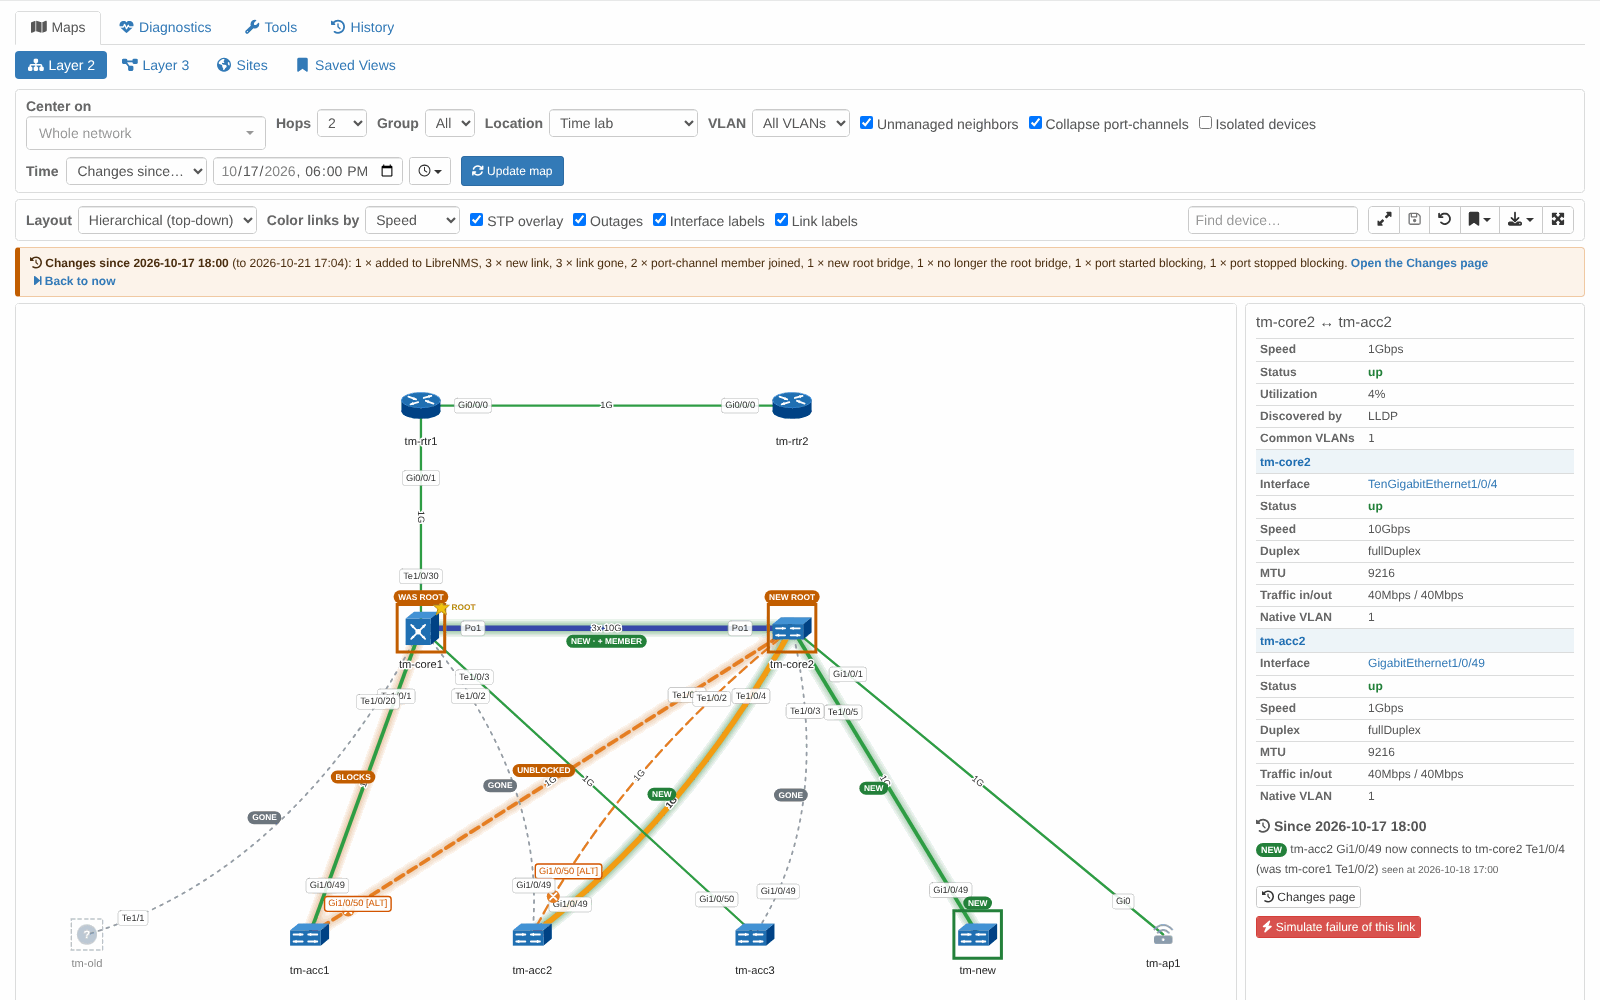
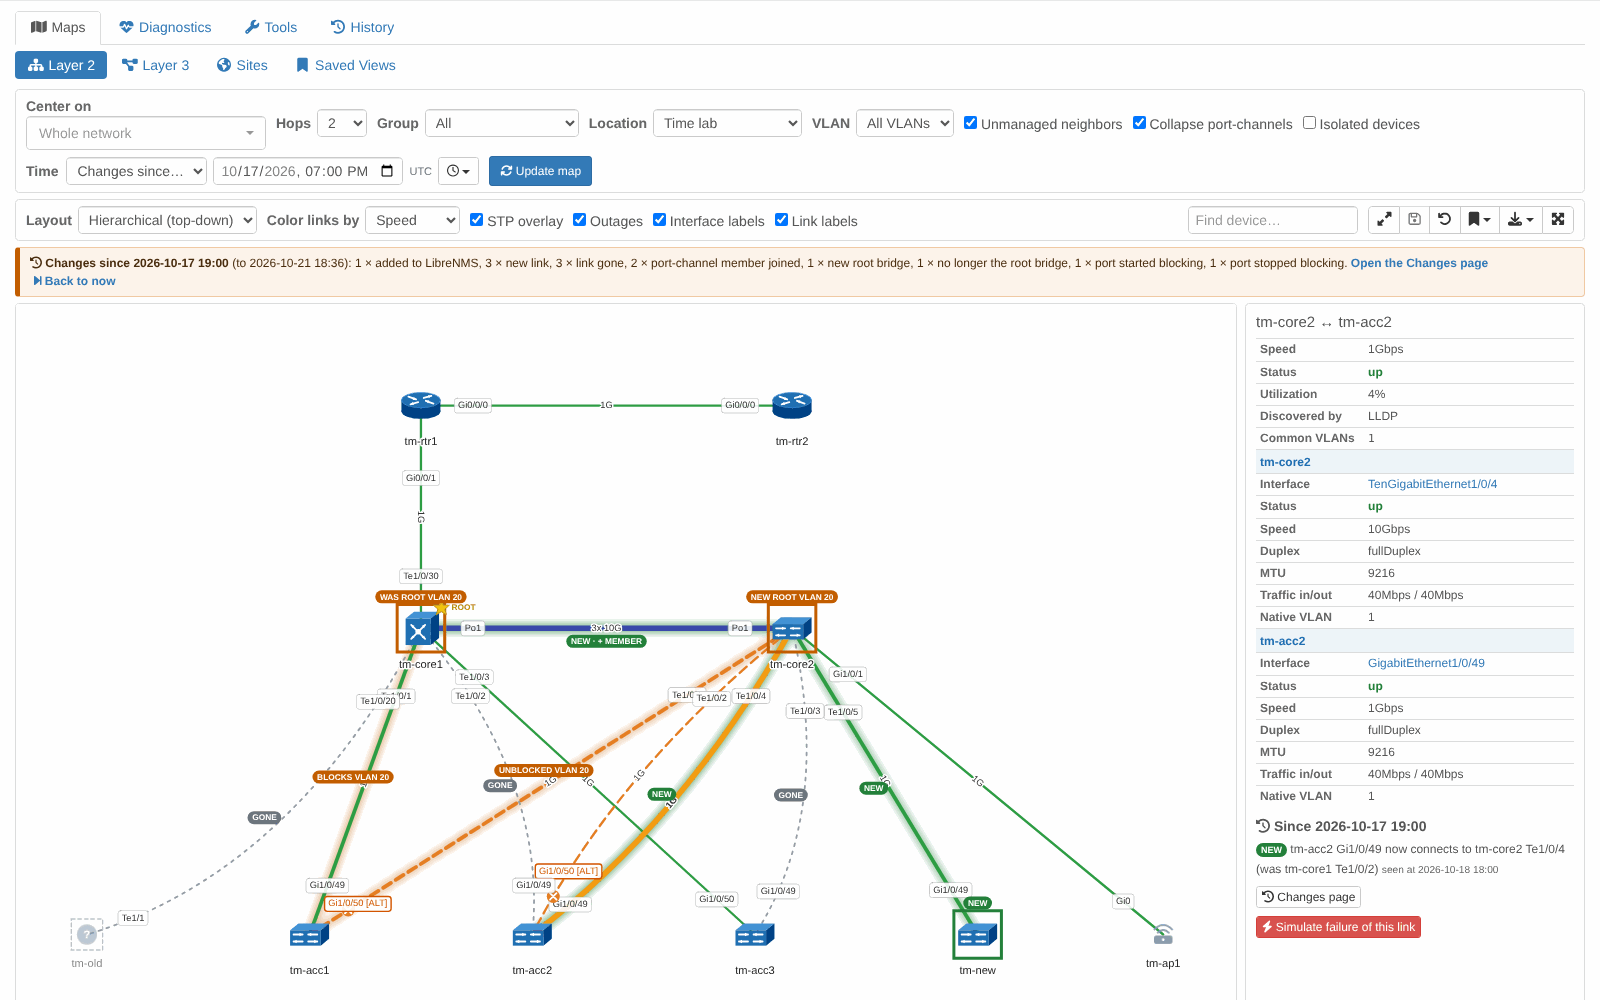
Document the maps at a point in time as reviewed
The README says what the review changed: the changes since a time are
what the Changes page reports for the span, the spanning tree marks
follow the map's VLAN, a minute counts to its end and the picks carry
their seconds, times given with an offset show as the server takes them,
ports re-created under a new id are matched by name, a device monitored
then stays on a past map without unmanaged neighbours, a past L3 map
keeps the neighbours the history recorded and the banner names the
phones it leaves out. It adds the figures over a long history (600,000
facts over 90 days) and the index migration to the list validate.php
warns about. The screenshots show the time zone and the VLAN badges.

Claude-Session: https://claude.ai/code/session_0198AmcjhsoHmwiaRMAktLtB

diff --git a/README.md b/README.md
@@ -115,27 +115,36 @@ recorded it at a time, or today's network with what changed since a time. **Time
 * **As of…** a date and time (`at=2026-10-14T09:00` in the URL): the map as the last snapshot at or before that time
   recorded it. From the history come the LLDP/CDP links (unmanaged neighbors included, phones left out as the history
   leaves them out), the port-channel members (collapsed as they were then), the root bridge each switch saw and the
-  blocked ports of the STP overlay (L2), and the OSPF adjacencies and BGP sessions (L3). From today come the ports with
-  their names, speeds and VLANs, the device details and the L3 map's subnets and addresses; a port LibreNMS no longer
-  has keeps the name the history stored, and so does a device it no longer has ("No longer in LibreNMS"). Links and
-  sessions are drawn without a status, in gray or the color of their speed (the history keeps none), devices as they
-  were: down when an outage covered that time, gray when LibreNMS did not have them yet. OSPFv3, IS-IS, IPsec, MPLS
-  LSPs and pseudowires are not in the history: a past L3 map leaves them out and says so. A banner names the snapshot
-  drawn and the next one, and what came from the history and what from today.
+  blocked ports of the STP overlay (L2), and the OSPF adjacencies and BGP sessions with the neighbor each went to then
+  (L3: a neighbor re-addressed or removed since shows as it was). From today come the ports with their names, speeds
+  and VLANs, the device details and the L3 map's subnets and addresses; a port LibreNMS no longer has keeps the name
+  the history stored, a port it re-created under a new id is matched by its name, and a device it no longer has keeps
+  its stored name ("No longer in LibreNMS") and stays on the map also without unmanaged neighbors, as it was monitored
+  then. Links and sessions are drawn without a status, in gray or the color of their speed (the history keeps none),
+  and their details show no status or traffic; devices as they were: down when an outage covered that time, gray when
+  LibreNMS did not have them yet. OSPFv3, IS-IS, IPsec, MPLS LSPs and pseudowires are not in the history: a past L3
+  map leaves them out and says so. A banner names the snapshot drawn and the next one, what came from the history and
+  what from today, and what the history leaves out (phones).
 * **Changes since…** a date and time or the baseline (`since=2026-10-14T09:00`, `since=baseline`): today's map with
-  what changed since then, read as the Changes page reads it (the same moved cables, root bridge moves and lost
-  adjacencies, and its limit of 5,000 facts that started and 5,000 that ended). New links are marked **NEW**, a cable
-  that moved is a new link and a ghost of the old one, port-channel members that joined or left **+ MEMBER** /
-  **− MEMBER**, the root bridge of the VLANs whose root moved **NEW ROOT** and the old one **WAS ROOT**, ports that
-  started or stopped blocking **BLOCKS** / **UNBLOCKED**, OSPF adjacencies and BGP sessions that came up **NEW**,
-  devices added to LibreNMS **NEW**. What is gone is drawn as a dashed gray **ghost** (links, lost adjacencies and
-  sessions), to a ghost of its far end when that is no longer on the map. The banner counts the marks; the details of a
-  marked link or device say what changed and when, and open the Changes page for that span. Since the baseline, the
-  marks are what differs from it (blocked ports are not part of a baseline).
+  what changed since then, read as the Changes page reads the same span: what it reports is marked, and nothing else
+  (the same moved cables, root bridge moves and lost adjacencies; a neighbor LibreNMS started or stopped monitoring is
+  the same cable, no change; and its limit of 5,000 facts that started and 5,000 that ended). New links are marked
+  **NEW**, a cable that moved is a new link and a ghost of the old one, port-channel members that joined or left
+  **+ MEMBER** / **− MEMBER**, the root bridge of the VLANs whose root moved **NEW ROOT** and the old one **WAS ROOT**,
+  ports that started or stopped blocking **BLOCKS** / **UNBLOCKED**, OSPF adjacencies and BGP sessions that came up
+  **NEW**, devices added to LibreNMS **NEW**. What is gone is drawn as a dashed gray **ghost** (links, lost adjacencies
+  and sessions), to a ghost of its far end when that is no longer on the map (none for an unmanaged neighbor when the
+  map leaves those out). On a map of one VLAN, the spanning tree marks are those of the instance it shows; on a map of
+  all VLANs each names its VLANs (**NEW ROOT VLAN 20**). The banner counts the marks; the details of a marked link or
+  device say what changed and when, and open the Changes page for that span. Since the baseline, the marks are what
+  its comparison on the Changes page lists (blocked ports are not part of a baseline).
 
 Quick picks (the clock button): an hour ago, yesterday and last week at this time, when the baseline was saved (*As
-of*) or the baseline itself (*Changes since*), and the latest snapshots. The time is the server's; the date input
-stops at the earliest snapshot the history keeps.
+of*) or the baseline itself (*Changes since*), and the latest snapshots, each to its second. Times are the server's
+(its time zone is named next to the date): a time with an offset (`at=2026-10-14T09:00+02:00`) is shown as the
+server takes it. A time without seconds counts to the end of its minute, as a snapshot starts a few seconds into one:
+*As of* 09:00 is the snapshot of 09:00:03, *Changes since* 09:00 are the changes after it. The date input stops at
+the minute of the earliest snapshot the history keeps.
 
 A map at another time is for looking at: it offers no failure simulation, located host (`host=`) or traced path
 (`path=`) of the past, and its layout cannot be saved, nor saved as a view or exported to a Custom Map, which LibreNMS
@@ -682,7 +691,8 @@ pollers share, as distributed polling needs), so a run, scheduled or manual, ski
 `./validate.php` then warns that the database schema "has extra migrations
 (2026_10_20_000000_create_topology_history_tables, 2026_10_20_100000_create_topology_custom_maps_table,
 2026_10_20_100100_create_topology_views_table, 2026_10_21_000000_add_finding_subjects_to_topology_history,
-2026_10_22_000000_widen_topology_finding_devices)" (in the order they were applied) and is "between releases": those
+2026_10_22_000000_widen_topology_finding_devices, 2026_10_23_000000_index_topology_facts_by_time)" (in the order they
+were applied) and is "between releases": those
 are the plugin's migrations, and the warning stays while the plugin is installed. While it warns, validate.php skips its
 checks of LibreNMS' own schema (structure and collation). **Do not delete the plugin's rows from the `migrations` table**
 to silence it: validate.php then lists the `topology_*` tables as extra tables and offers to drop them. **Never apply
@@ -922,11 +932,12 @@ not followed, and without `routing.view` every router is crossed by an estimate 
   `ChangeReport` (moved cables, root bridge moves, lost adjacencies), `Baseline`, `FindingHistory` (findings confirmed
   by two runs, eventlog entries); `HistoryService` runs them, `Console/` holds the scheduled `topology:snapshot` and
   `topology:checks`.
-* `src/History/PastMap.php` – a map as of a time: the facts of one snapshot (`HistoryRepository::factsAt()`, streamed a
-  chunk at a time) given to the L2 and L3 builders in the shape of the LibreNMS tables they read, and the past map drawn
-  without today's statuses; `ChangeMarks` – the marks and ghosts of the changes since a time on today's map, from the
-  facts the Changes page reads (`HistoryService::window()`, events in `ChangeReport`'s words) or the baseline;
-  `MapHistory` – which snapshot a time shows, the refusals and the map's Time control.
+* `src/History/PastMap.php` – a map as of a time: the facts of one snapshot (`HistoryRepository::factsAt()`: which
+  facts were present is read from an index of the facts' kind, times and devices, then their rows a chunk at a time)
+  given to the L2 and L3 builders in the shape of the LibreNMS tables they read, and the past map drawn without today's
+  statuses; `ChangeMarks` – the marks and ghosts of the changes since a time on today's map: the facts of the events
+  the Changes page reports for the span (`HistoryService::window()`, `ChangeReport`'s words), or of the comparison
+  with the baseline; `MapHistory` – which snapshot a time shows, the refusals and the map's Time control.
 * `src/Sharing/SavedView.php` – what a saved view keeps and which of its positions a viewer gets (`Data\ViewRepository`
   stores the views and checks who may open and change them).
 * `src/Sharing/CustomMapLayout.php` – the custom map of an L2 or L3 map (nodes, icons, positions, the port of each
@@ -952,9 +963,10 @@ vendor/bin/phpunit
   default), from the earliest snapshot the history keeps (*Keep changes for*, 90 days by default) on. The site map has
   no Time.
 * On a map of the past, the ports (names, speeds, VLANs, descriptions), the device details and the L3 map's subnets and
-  addresses are today's; a port LibreNMS rediscovered under another id since keeps its stored name only. The history
-  keeps no link or session states, no root ports, bridge priorities, costs or timers, and no OSPFv3, IS-IS, IPsec, MPLS
-  or pseudowire data, so a past map shows none of them.
+  addresses are today's; a port LibreNMS re-created under another id since is the port of its name on its device, one
+  it no longer has keeps its stored name only. The history keeps no link or session states, no root ports, bridge
+  priorities, costs or timers, no phones and no OSPFv3, IS-IS, IPsec, MPLS or pseudowire data, so a past map shows
+  none of them.
 * Changes since a time mark as many changes as the Changes page lists (5,000 facts that started and 5,000 that ended):
   with more, the marks start where that limit fell, and the banner says so. A change of devices that are not on the map
   (scope, hops, device limit) is counted, not drawn, and an instance whose root bridge did not move (a switch that
@@ -1147,12 +1159,15 @@ vendor/bin/phpunit
 * `./validate.php` warns about the plugin's migrations while the plugin is installed and then skips its checks of
   LibreNMS' own schema (see [Installation](#installation)).
 * The pages of the whole network fit in PHP's default 128 MB on 1,242 switches with 23,000 phones and 50 PVST VLANs
-  (largest: redundancy and device dependencies 96 MB, links 86 MB, spanning tree 84 MB, L2 map 66 MB; with a history of
-  four snapshots and some 5,000 changed facts the L2 map as of a time takes 66-68 MB and 0.3 s, with the changes since
-  the first snapshot 74 MB and 0.7 s, since the baseline 72 MB); a page also raises PHP's memory limit to LibreNMS'
+  (largest: redundancy and device dependencies 96 MB, links 86 MB, spanning tree 84 MB, L2 map 66 MB). So do the maps
+  at a point in time, also over a long history: with four snapshots an hour apart (some 10,000 changed facts) after
+  600,000 facts over 90 days with a snapshot every 6 hours, the L2 map as of the latest snapshot takes 66 MB and 0.25 s,
+  as of a time 45 days back 54 MB and 0.3 s, with the changes since the first of the four 74 MB and 0.6 s, since the
+  start of the 90 days 94 MB and 0.9 s (up to the limit of 5,000 + 5,000 facts), since the baseline 70 MB and 0.7 s;
+  at a device limit of 5,000, 66-116 MB and up to 1.1 s. A page also raises PHP's memory limit to LibreNMS'
   `php_memory_limit`, or 256 MB when it is not set. One VLAN of a very large PVST network with STP port rows for every
-  port can still need more, and so can the L3 map of a large routed network (2,000 routers with 50,000 addresses: 160 MB,
-  as of a time or with the changes since as much as now).
+  port can still need more, and so can the L3 map of a large routed network (2,000 routers with 50,000 addresses:
+  160 MB, as of a time or with the changes since as much as now).
 
 ## Roadmap
 
